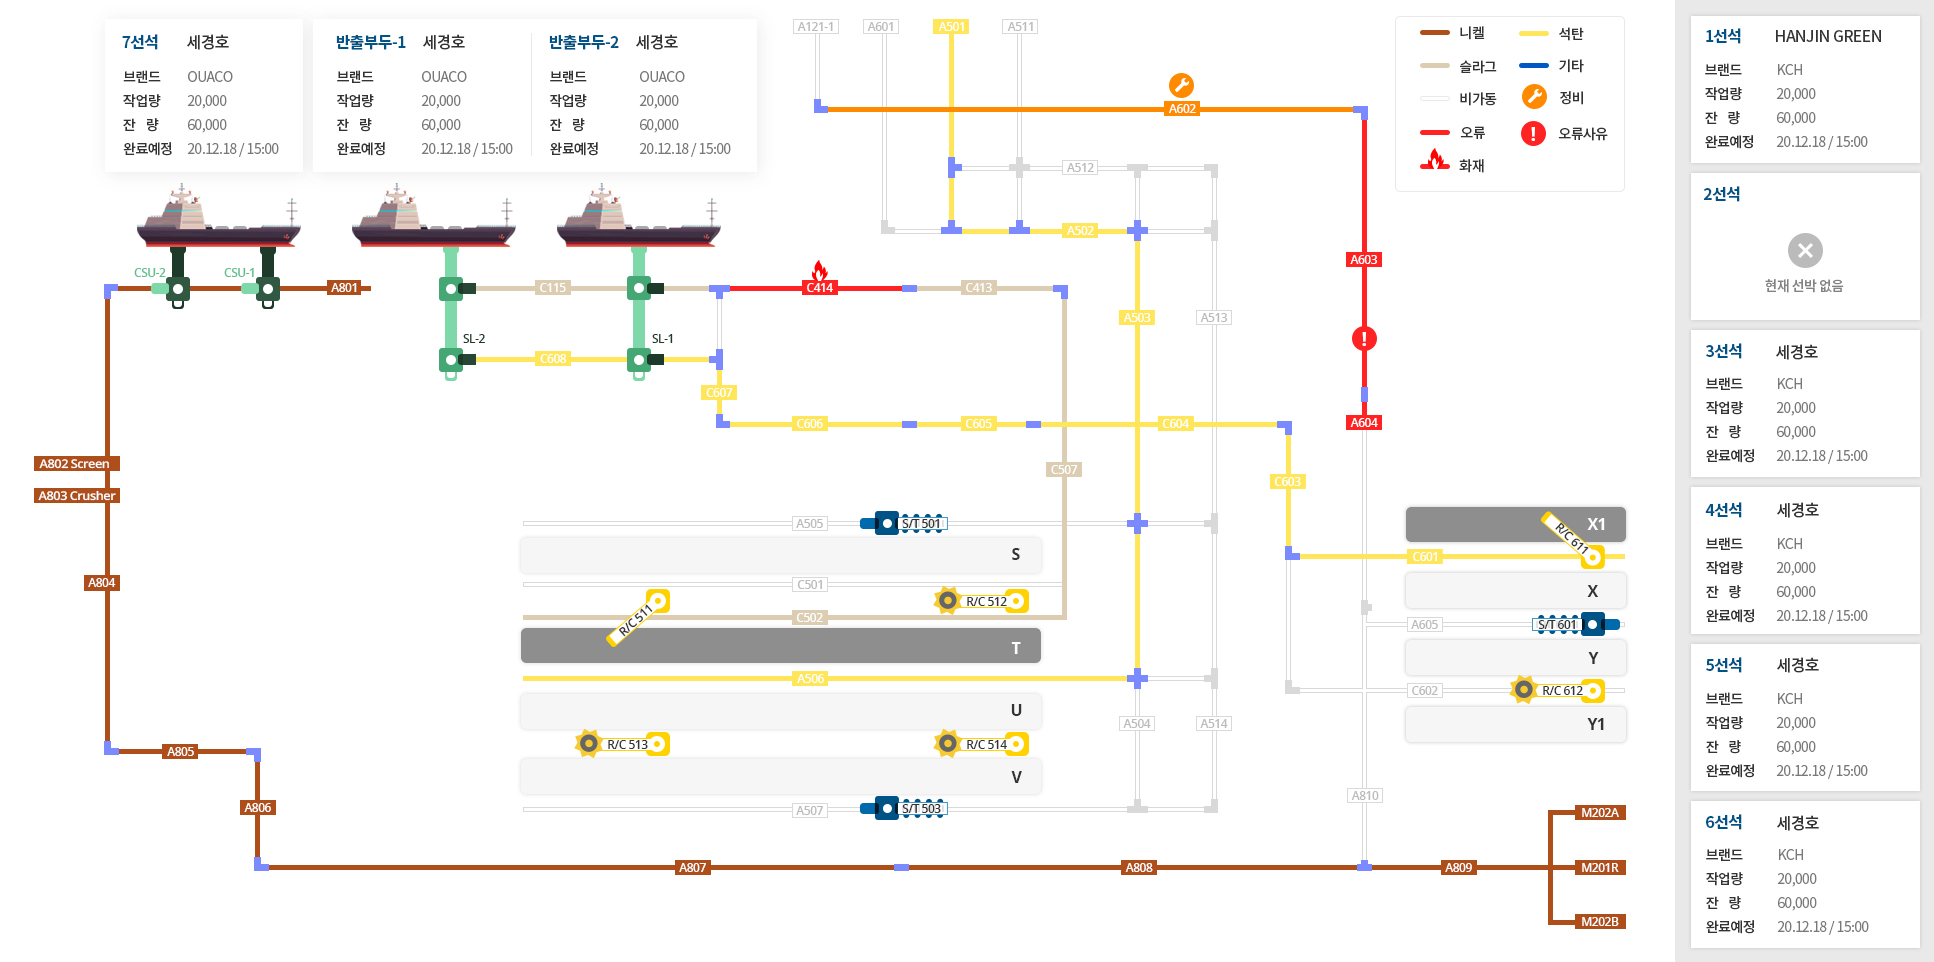
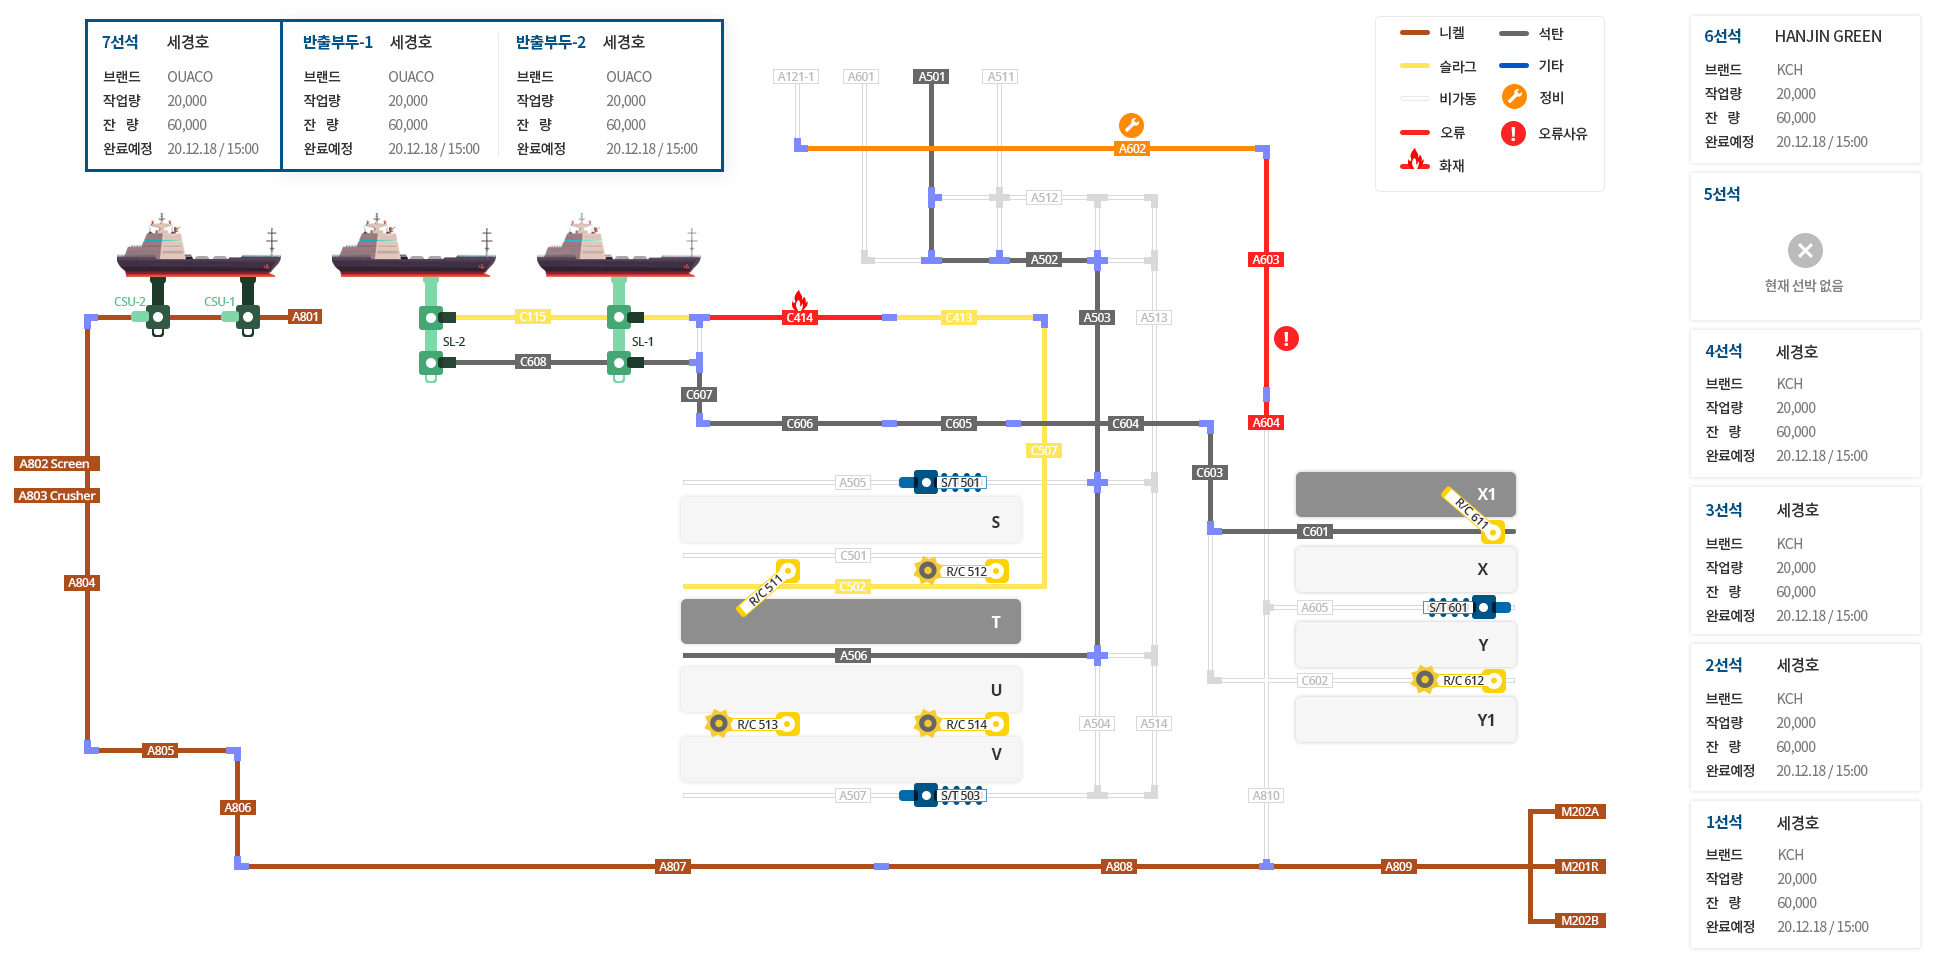
포스코 시안 수정

diff --git a/view2.html b/view2.html
@@ -6,20 +6,20 @@
 			.main_bg{background:url('img/posco_2.jpg')no-repeat 100% center; height:1080px; width:1920px; margin:0 auto; position:relative;}
 			.cogwheel{position:relative; width:100%; height:100%;}
 			.cogwheel p{position:absolute;}
-			.cogwheel .reclaimer_left1{left:710px; bottom:375px;}
-			.cogwheel .reclaimer_left2{right:475px; bottom:500px;}
-			.cogwheel .stacker1{left:880px; bottom:333px;}
-			.view_link{position:absolute; right:580px; z-index:333; top:30px;}
+			.cogwheel .reclaimer_left1{left:595px; bottom:453px;}
+			.cogwheel .reclaimer_left2{right:200px; bottom:565px;}
+			.cogwheel .stacker1{left:779px; bottom:351px;}
+			.view_link{position:absolute; right:580px; z-index:333; top:20px;}
 			.view_link a{text-decoration:blink; color:#333; font-weight:bold; padding:5px 10px; border-radius:50px;}
 			.view_link a.on{color:#fff; background:#005386;}
 		</style>
 		<div class="main_bg">
 			<div class="view_link">
-				<a href="view5.html">View1</a>
-				<a href="view4.html">View2</a>
+				<a href="index.html">View1</a>
+				<a class="on" href="#">View2</a>
 				<a href="view3.html">View3</a>
-				<a class="on" href="#">View4</a>
-				<a href="index.html">View5</a>
+				<a href="view4.html">View4</a>
+				<a href="view5.html">View5</a>
 			</div>
 			<div class="cogwheel">
 				<p class="reclaimer_left1"><img src="img/reclaimer_left.gif"/></p>

diff --git a/view4.html b/view4.html
@@ -6,20 +6,20 @@
 			.main_bg{background:url('img/posco_4.jpg')no-repeat 100% center; height:1080px; width:1920px; margin:0 auto; position:relative;}
 			.cogwheel{position:relative; width:100%; height:100%;}
 			.cogwheel p{position:absolute;}
-			.cogwheel .reclaimer_left1{left:580px; bottom:346px;}
-			.cogwheel .reclaimer_left2{right:377px; bottom:478px;}
-			.cogwheel .stacker1{left:837px; bottom:312px;}
-			.view_link{position:absolute; right:580px; z-index:333; top:30px;}
+			.cogwheel .reclaimer_left1{left:710px; bottom:375px;}
+			.cogwheel .reclaimer_left2{right:475px; bottom:500px;}
+			.cogwheel .stacker1{left:880px; bottom:333px;}
+			.view_link{position:absolute; right:580px; z-index:333; top:20px;}
 			.view_link a{text-decoration:blink; color:#333; font-weight:bold; padding:5px 10px; border-radius:50px;}
 			.view_link a.on{color:#fff; background:#005386;}
 		</style>
 		<div class="main_bg">
 			<div class="view_link">
-				<a href="view5.html">View1</a>
-				<a class="on" href="#">View2</a>
+				<a href="index.html">View1</a>
+				<a href="view2.html">View2</a>
 				<a href="view3.html">View3</a>
-				<a href="view2.html">View4</a>
-				<a href="index.html">View5</a>
+				<a class="on" href="#">View4</a>
+				<a href="view5.html">View5</a>
 			</div>
 			<div class="cogwheel">
 				<p class="reclaimer_left1"><img src="img/reclaimer_left.gif"/></p>

diff --git a/view5.html b/view5.html
@@ -6,20 +6,20 @@
 			.main_bg{background:url('img/posco_5.jpg')no-repeat 100% center; height:1080px; width:1920px; margin:0 auto; position:relative;}
 			.cogwheel{position:relative; width:100%; height:100%;}
 			.cogwheel p{position:absolute;}
-			.cogwheel .reclaimer_left1{left:508px; bottom:348px;}
-			.cogwheel .reclaimer_left2{right:378px; bottom:476px;}
-			.cogwheel .stacker1{left:660px; bottom:388px;}
-			.view_link{position:absolute; right:580px; z-index:333; top:30px;}
+			.cogwheel .reclaimer_left1{left:788px; bottom:456px;}
+			.cogwheel .reclaimer_left2{right:352px; bottom:569px;}
+			.cogwheel .stacker1{left:977px; bottom:426px;}
+			.view_link{position:absolute; right:580px; z-index:333; top:20px;}
 			.view_link a{text-decoration:blink; color:#333; font-weight:bold; padding:5px 10px; border-radius:50px;}
 			.view_link a.on{color:#fff; background:#005386;}
 		</style>
 		<div class="main_bg">
 			<div class="view_link">
-				<a class="on" href="#">View1</a>
-				<a href="view4.html">View2</a>
+				<a href="index.html">View1</a>
+				<a href="view2.html">View2</a>
 				<a href="view3.html">View3</a>
-				<a href="view2.html">View4</a>
-				<a href="index.html">View5</a>
+				<a href="view4.html">View4</a>
+				<a  class="on" href="#">View5</a>
 			</div>
 			<div class="cogwheel">
 				<p class="reclaimer_left1"><img src="img/reclaimer_left.gif"></p>

diff --git a/index.html b/index.html
@@ -6,20 +6,20 @@
 			.main_bg{background:url('img/posco_1.jpg')no-repeat 100% center; height:1080px; width:1920px; margin:0 auto; position:relative;}
 			.cogwheel{position:relative; width:100%; height:100%;}
 			.cogwheel p{position:absolute;}
-			.cogwheel .reclaimer_left1{left:710px; bottom:375px;}
-			.cogwheel .reclaimer_left2{right:475px; bottom:500px;}
-			.cogwheel .stacker1{left:880px; bottom:333px;}
-			.view_link{position:absolute; right:580px; z-index:333; top:30px;}
+			.cogwheel .reclaimer_left1{left:508px; bottom:348px;}
+			.cogwheel .reclaimer_left2{right:378px; bottom:476px;}
+			.cogwheel .stacker1{left:660px; bottom:388px;}
+			.view_link{position:absolute; right:580px; z-index:333; top:20px;}
 			.view_link a{text-decoration:blink; color:#333; font-weight:bold; padding:5px 10px; border-radius:50px;}
 			.view_link a.on{color:#fff; background:#005386;}
 		</style>
 		<div class="main_bg">
 			<div class="view_link">
-				<a href="view5.html">View1</a>
-				<a href="view4.html">View2</a>
+				<a class="on" href="#">View1</a>
+				<a href="view2.html">View2</a>
 				<a href="view3.html">View3</a>
-				<a href="view2.html">View4</a>
-				<a class="on" href="#">View5</a>
+				<a href="view4.html">View4</a>
+				<a href="view5.html">View5</a>
 			</div>
 			<div class="cogwheel">
 				<p class="reclaimer_left1"><img src="img/reclaimer_left.gif"></p>

diff --git a/view3.html b/view3.html
@@ -6,20 +6,20 @@
 			.main_bg{background:url('img/posco_3.jpg')no-repeat 100% center; height:1080px; width:1920px; margin:0 auto; position:relative;}
 			.cogwheel{position:relative; width:100%; height:100%;}
 			.cogwheel p{position:absolute;}
-			.cogwheel .reclaimer_left1{left:788px; bottom:456px;}
-			.cogwheel .reclaimer_left2{right:352px; bottom:569px;}
-			.cogwheel .stacker1{left:977px; bottom:426px;}
-			.view_link{position:absolute; right:580px; z-index:333; top:30px;}
+			.cogwheel .reclaimer_left1{left:710px; bottom:375px;}
+			.cogwheel .reclaimer_left2{right:475px; bottom:500px;}
+			.cogwheel .stacker1{left:880px; bottom:333px;}
+			.view_link{position:absolute; right:580px; z-index:333; top:20px;}
 			.view_link a{text-decoration:blink; color:#333; font-weight:bold; padding:5px 10px; border-radius:50px;}
 			.view_link a.on{color:#fff; background:#005386;}
 		</style>
 		<div class="main_bg">
 			<div class="view_link">
-				<a href="view5.html">View1</a>
-				<a href="view4.html">View2</a>
+				<a href="index.html">View1</a>
+				<a href="view2.html">View2</a>
 				<a class="on" href="#">View3</a>
-				<a href="view2.html">View4</a>
-				<a href="index.html">View5</a>
+				<a href="view4.html">View4</a>
+				<a href="view5.html">View5</a>
 			</div>
 			<div class="cogwheel">
 				<p class="reclaimer_left1"><img src="img/reclaimer_left.gif"></p>
